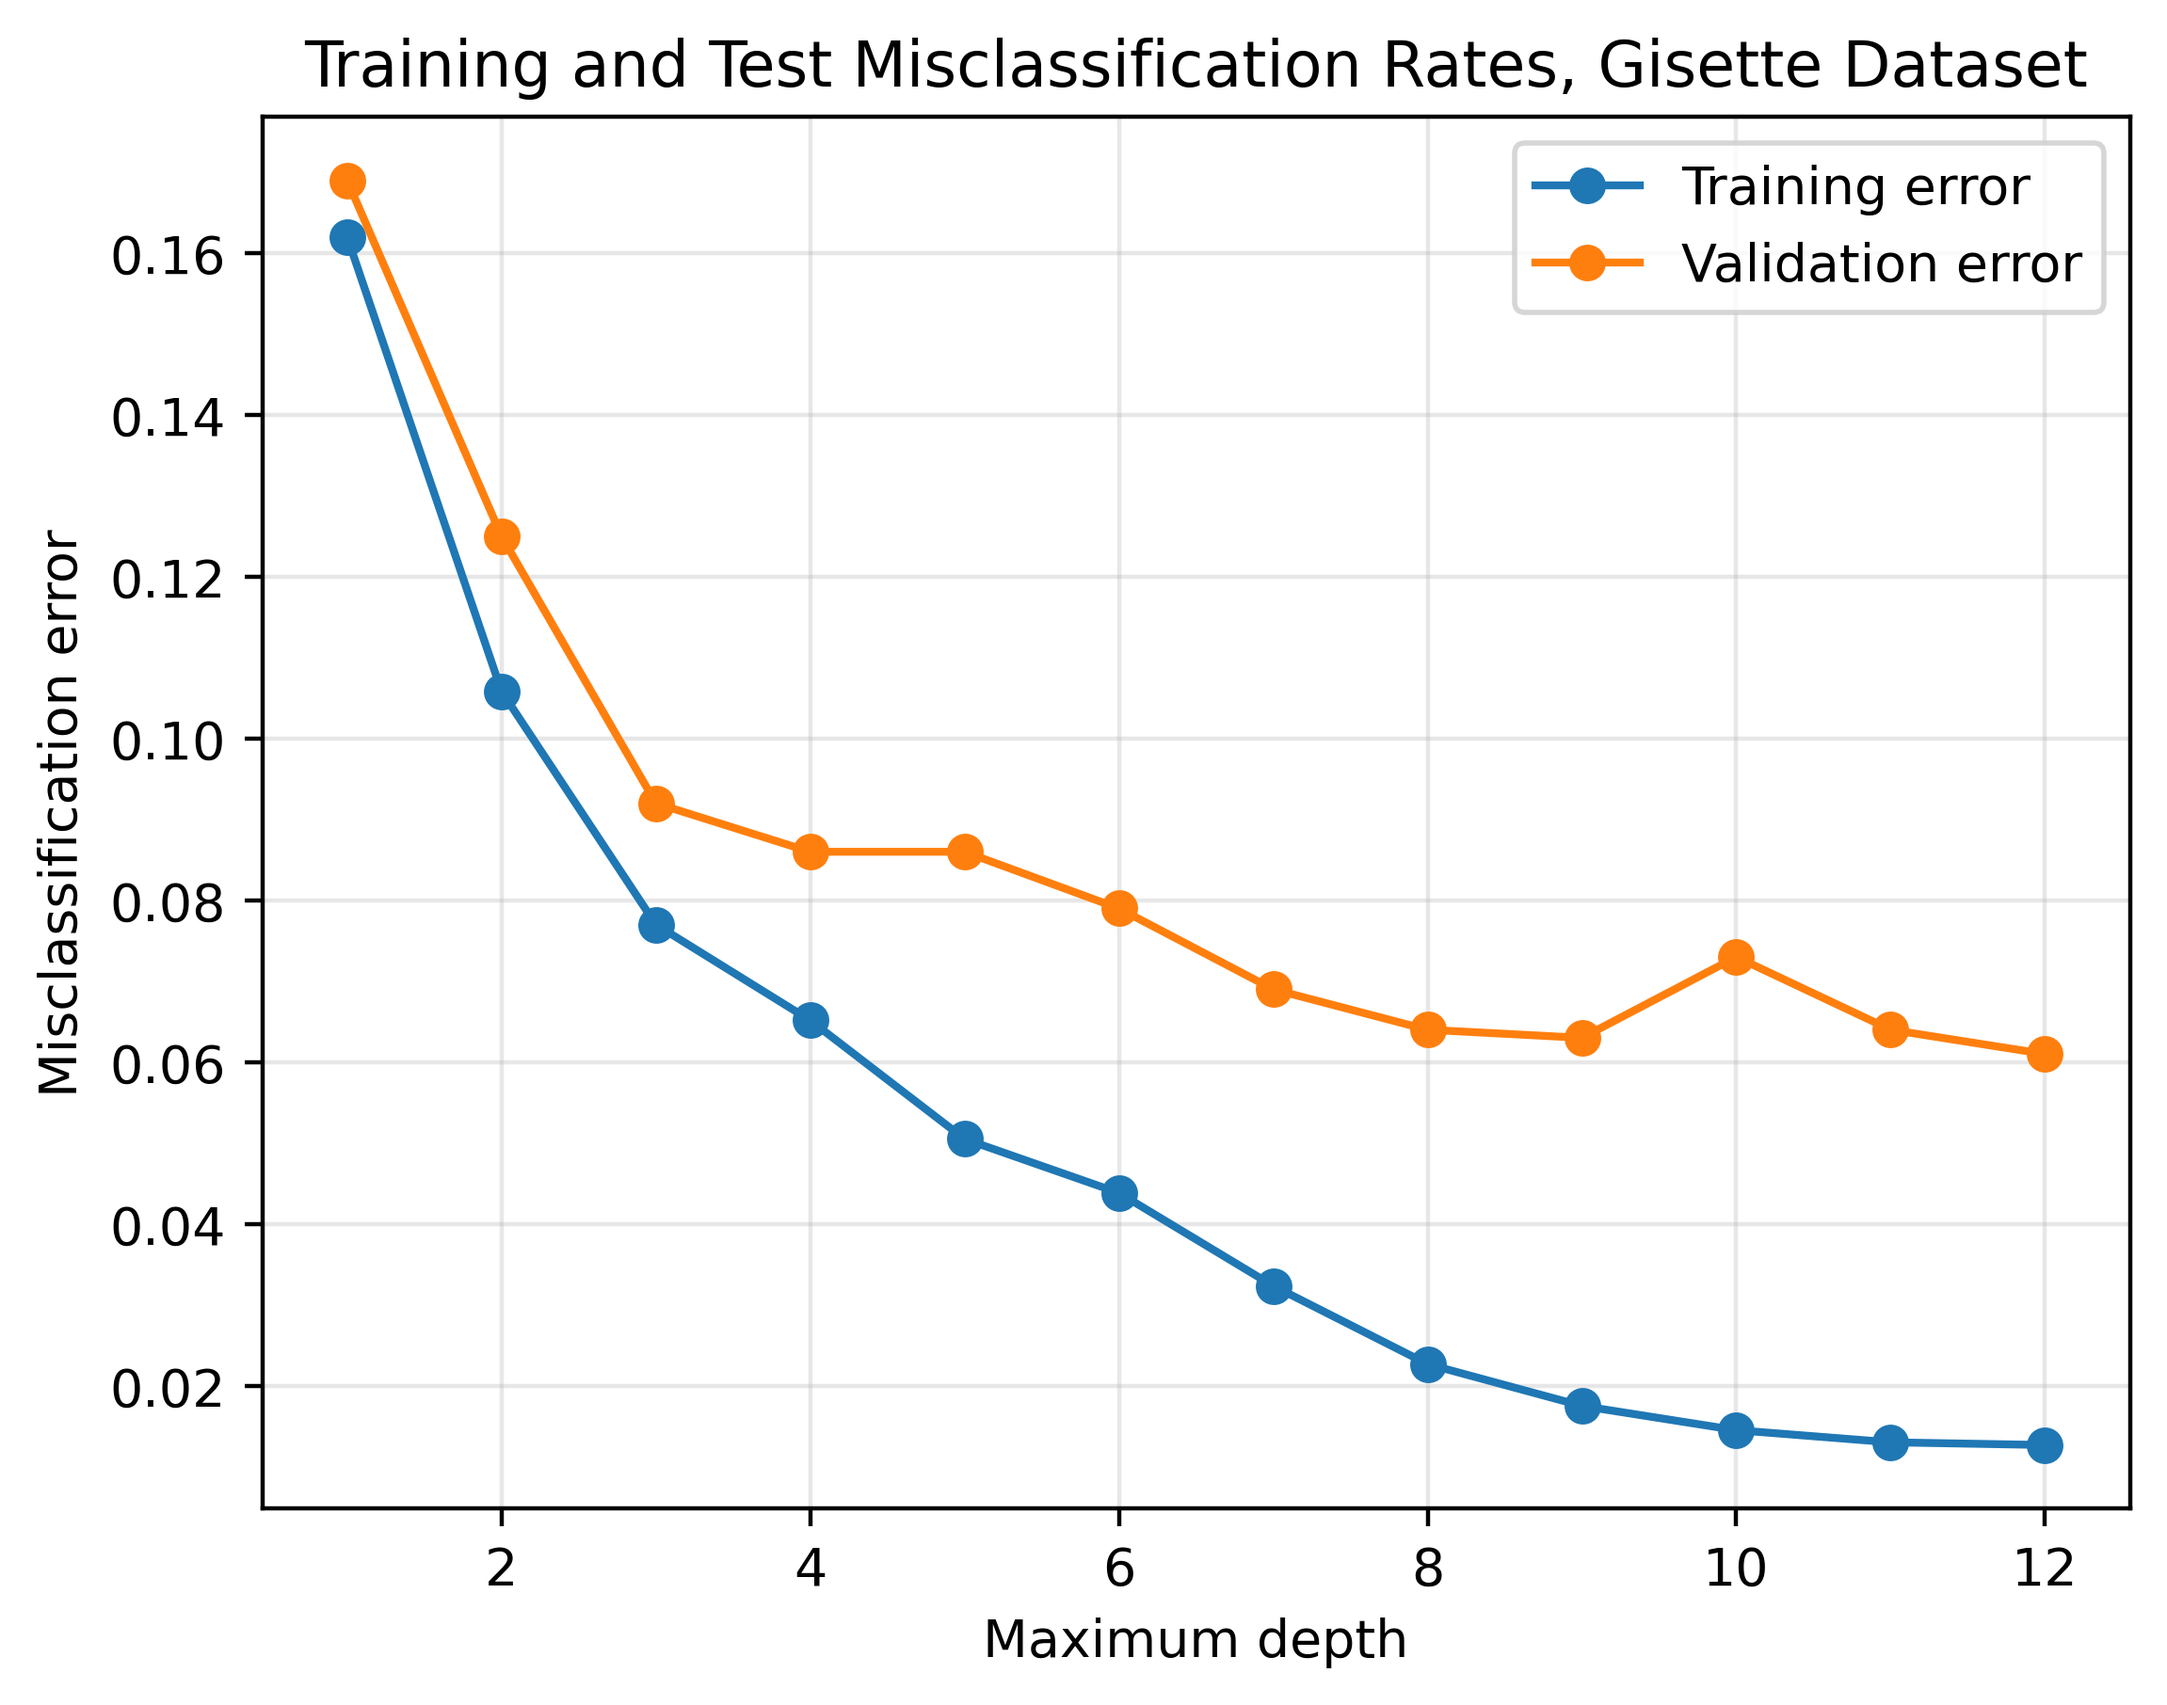
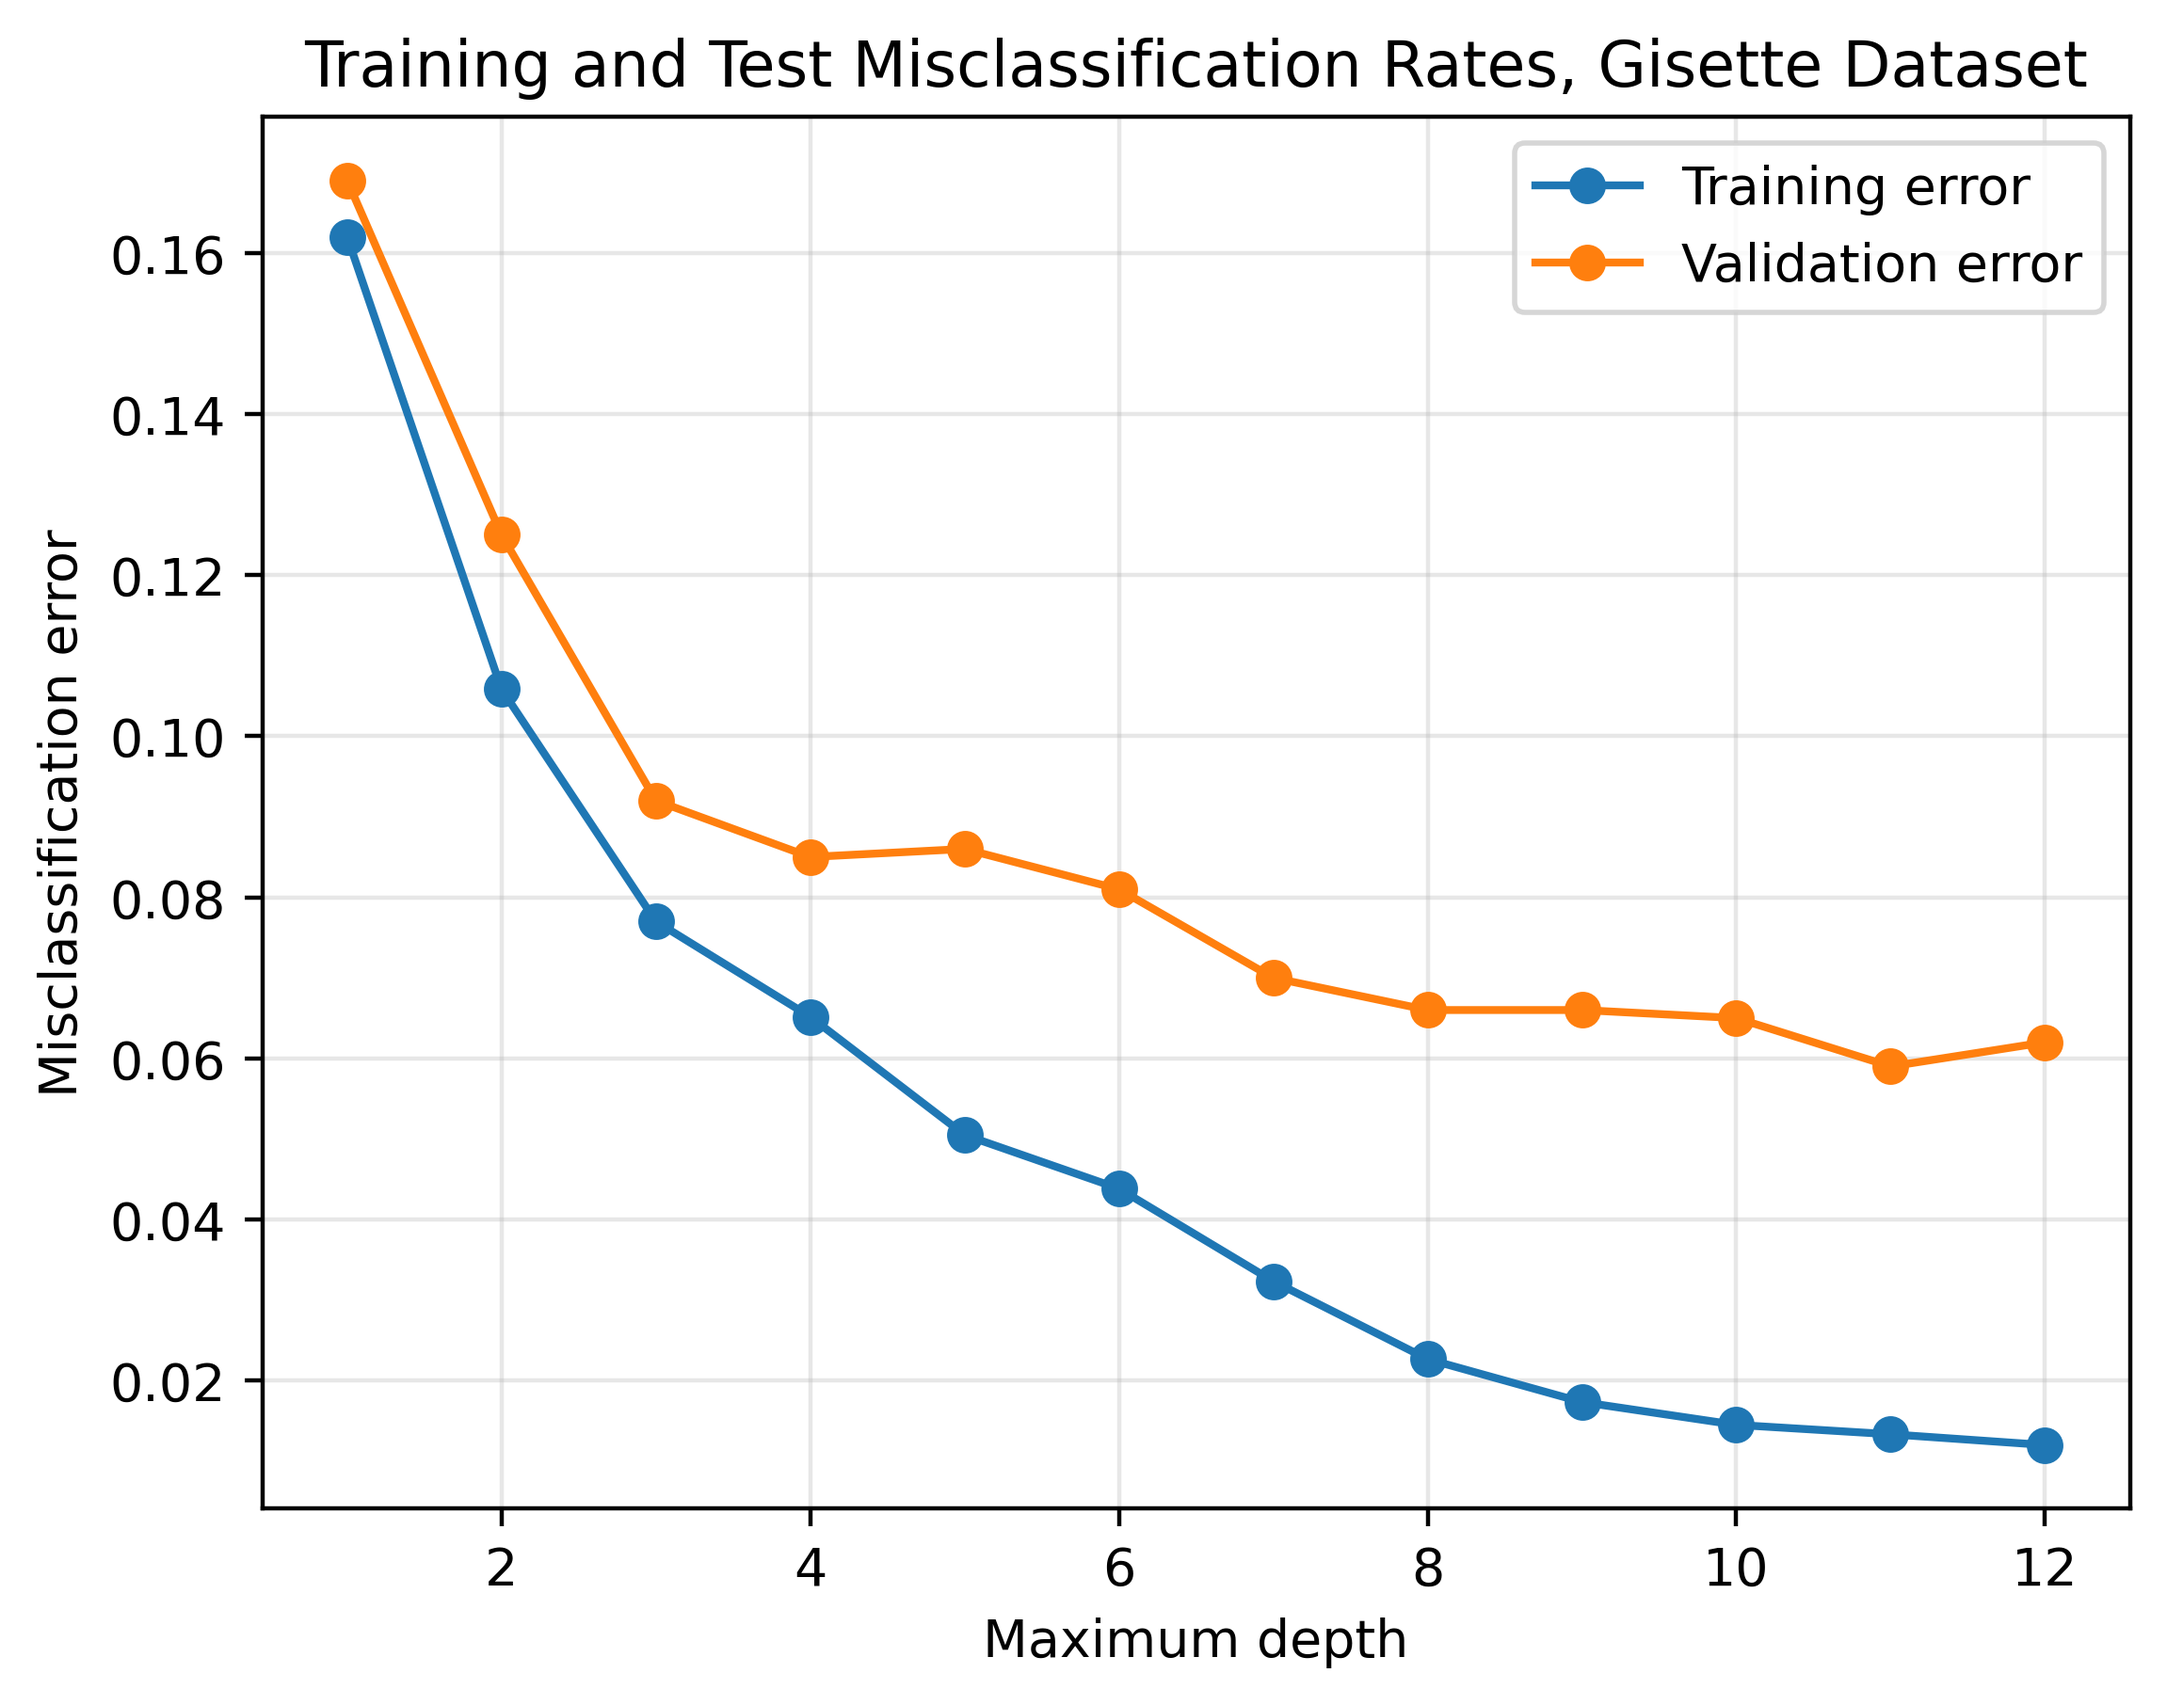
done satimage.  Is there a better way to do this?

diff --git a/assignments/hw01/code/hw01.py b/assignments/hw01/code/hw01.py
@@ -69,12 +69,78 @@ lowest_error = results_q1[results_q1['Validation Misclassification'] == results_
 #save for latex.  Discovered you can use the .to_latex command. 
 LATEX_table = lowest_error.to_latex(
     index=False,
-    caption="Lowest misclassification error",
-    label="tab:tree_misclass_error",
+    caption="Lowest misclassification error, Gisette Dataset",
+    label="tab:tree_misclass_error_p1",
     column_format="ccc"
 )
 
 print(LATEX_table)
 
+
+
 #problem 2, need to repeat this for satimage, madelon, hill-valley, and covtype data
-datasets = ["satimage", "madelon", "hill-valley", "covtype"]
+train_data = pd.read_csv("assignments/hw01/data/X.dat", delim_whitespace=True, header=None)
+train_labels = pd.read_csv("assignments/hw01/data/Y.dat", header=None)
+
+validate_data = pd.read_csv("assignments/hw01/data/Xtest.dat", delim_whitespace=True, header=None)
+validate_labels = pd.read_csv("assignments/hw01/data/Ytest.dat", header=None)
+
+#need to loop from 1 to 12
+#initialize the empty storage arrays
+training_missclass = []
+validate_missclass = []
+
+#12 depths
+for i in range(1, 13):
+    #fitting the decision treee with max depth of i
+    dtree = tree.DecisionTreeClassifier(max_depth=i)
+    dtree = dtree.fit(train_data,train_labels)
+
+    #predict
+    training_predict = dtree.predict(train_data)
+    validate_predict = dtree.predict(validate_data)
+
+    #get misclassification rate
+    #check accuracy scores.  Returns fraction of correctly classified sampler.  I think that this means that the
+    # #misclassification rate is simply 1- this value
+    training_missclass_rate = 1 - accuracy_score(train_labels, training_predict)
+    validation_missclass_rate = 1 - accuracy_score(validate_labels, validate_predict)
+
+    #append to arrays
+    training_missclass.append(training_missclass_rate)
+    validate_missclass.append(validation_missclass_rate)
+
+#need to plot things now
+plt.figure()
+plt.plot(range(1,13), training_missclass, marker='o', label='Training error')
+plt.plot(range(1,13), validate_missclass, marker='o', label='Validation error')
+plt.title("Training and Test Misclassification Rates, Satimage Dataset")
+plt.xlabel("Maximum depth")
+plt.ylabel("Misclassification error")
+plt.legend()
+plt.grid(True, alpha=0.3)
+#plt.show()
+
+#save this image into the figures folder
+plt.savefig("assignments/hw01/figures/satimage_misclassification_p2.png", dpi=400, bbox_inches="tight")
+plt.close()
+
+#need to create a dataframe for table:
+results_q1 = pd.DataFrame({
+    "Depth": range(1,13),
+    "Training Misclassification": training_missclass,
+    "Validation Misclassification": validate_missclass
+})
+
+#find lowest validation error and tree depth
+lowest_error = results_q1[results_q1['Validation Misclassification'] == results_q1['Validation Misclassification'].min()]
+
+#save for latex.  Discovered you can use the .to_latex command. 
+LATEX_table = lowest_error.to_latex(
+    index=False,
+    caption="Lowest misclassification error: Satimage Dataset",
+    label="tab:tree_misclass_error_p2_satimage",
+    column_format="ccc"
+)
+
+print(LATEX_table)
